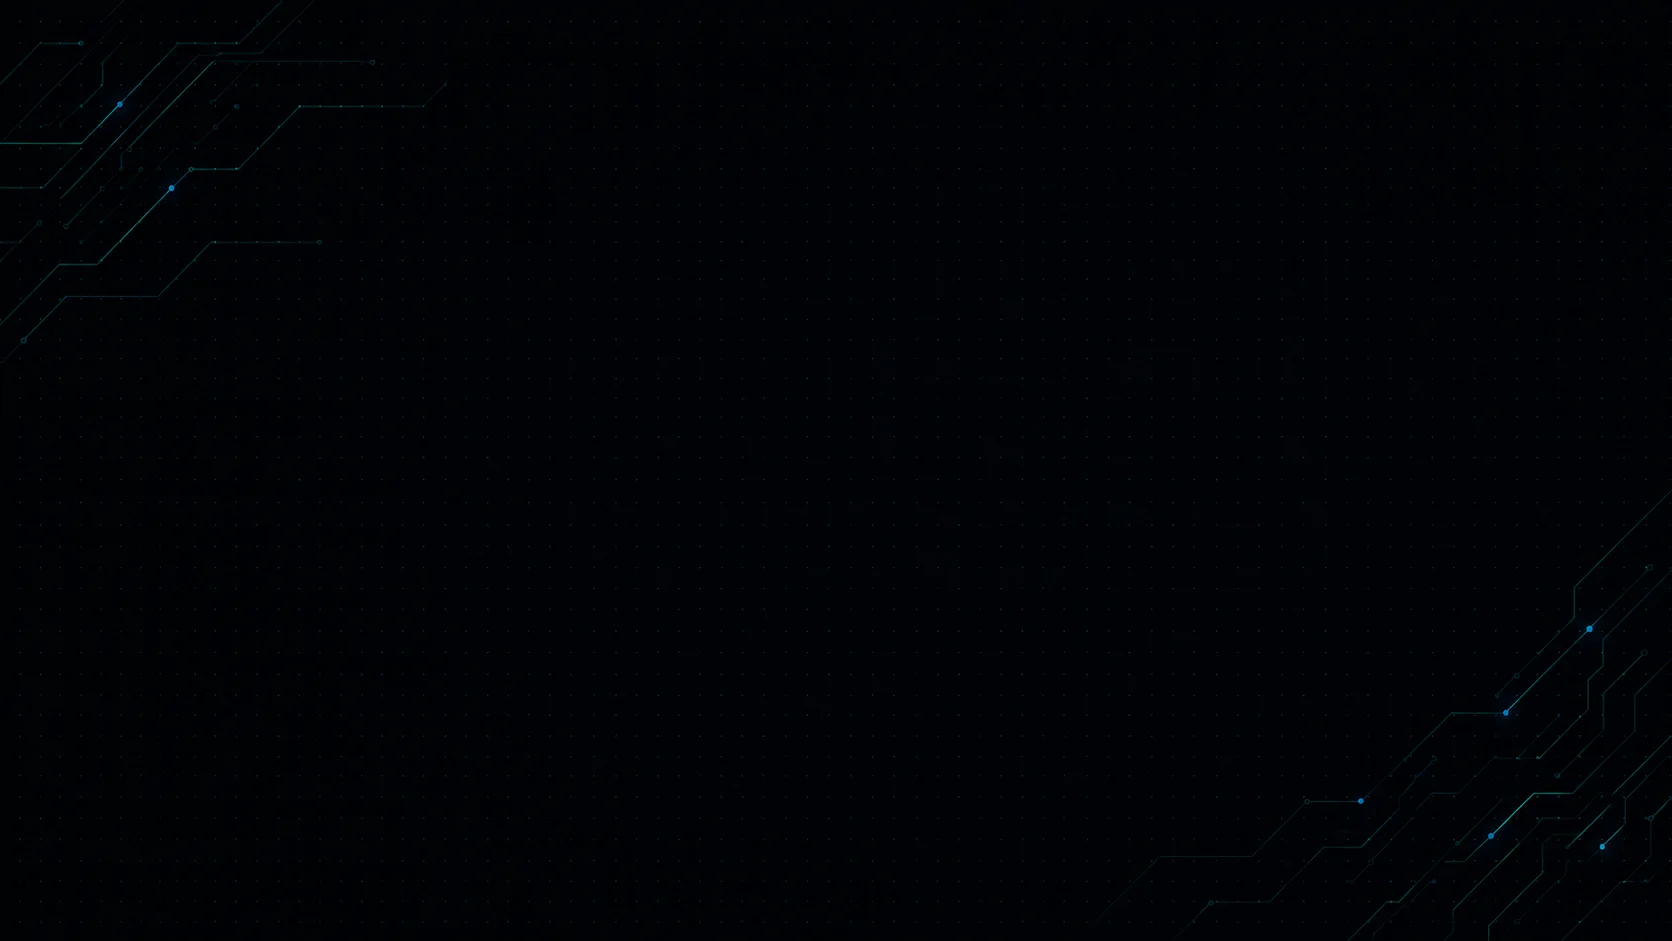
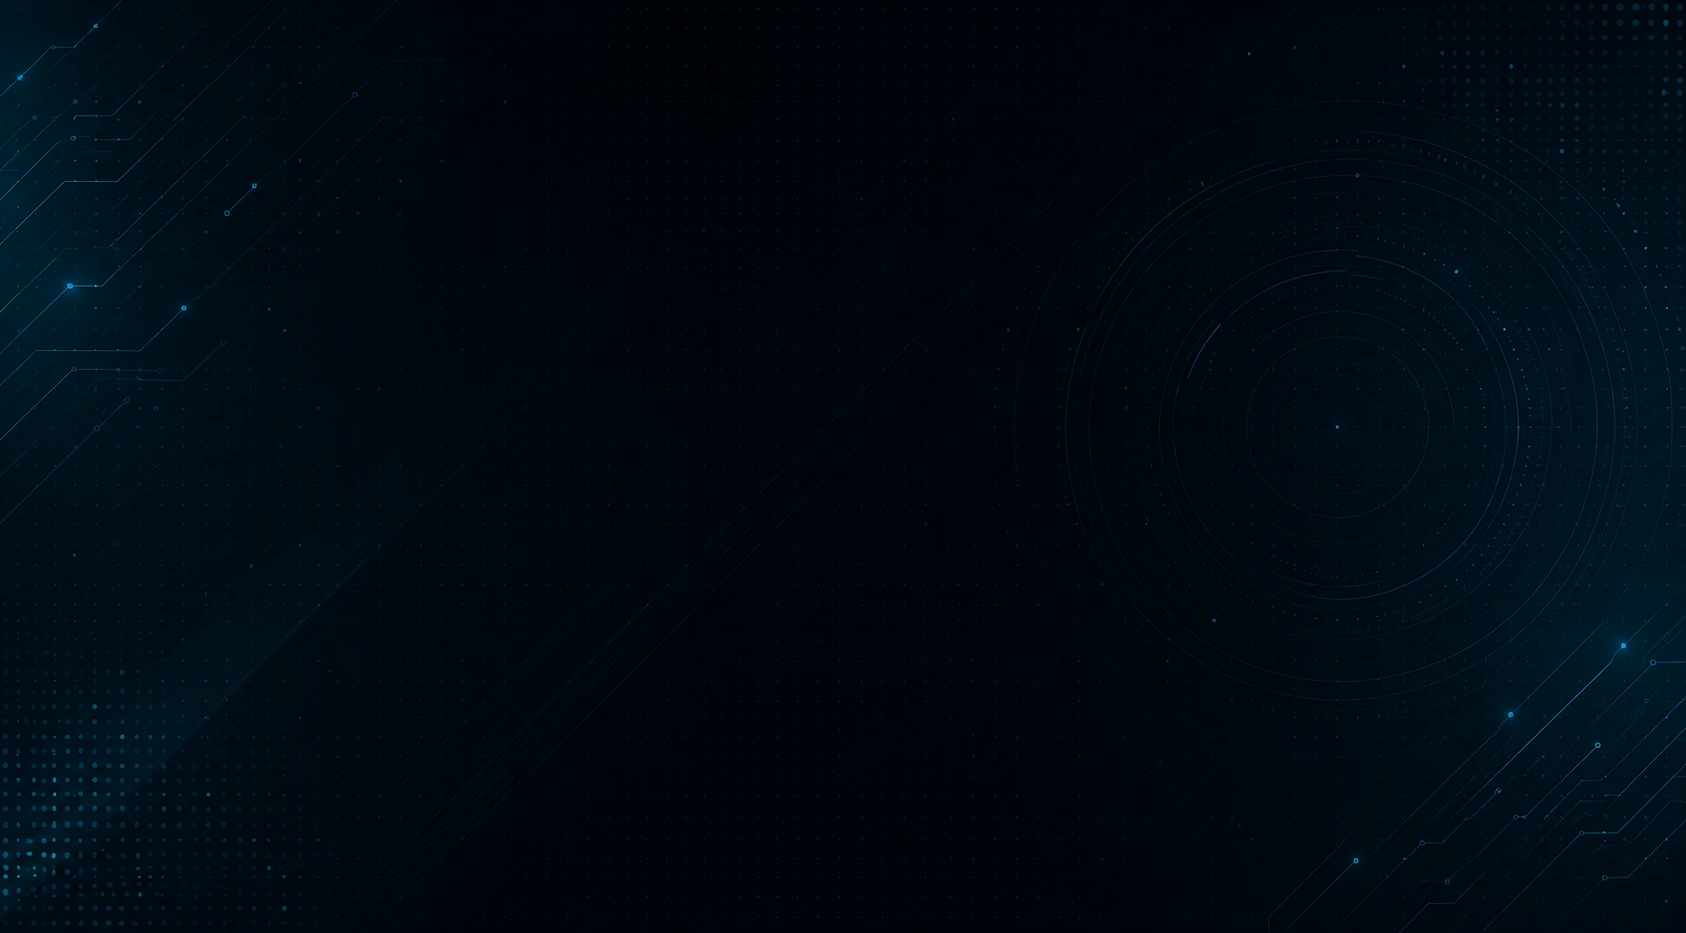
hero section background

diff --git a/src/components/sections/Hero.jsx b/src/components/sections/Hero.jsx
@@ -166,11 +166,11 @@ const Hero = () => {
           <div
             className="absolute pointer-events-none"
             style={{
-              right: '0%',
-              top: '42%',
+              right: 'clamp(54px, 6.2vw, 120px)',
+              top: '37%',
               transform: 'translateY(-50%)',
-              width: '500px',
-              height: '500px',
+              width: 'min(28vw, 500px)',
+              height: 'min(28vw, 500px)',
             }}
           >
             {/* Removed subtle glow behind the mesh */}
